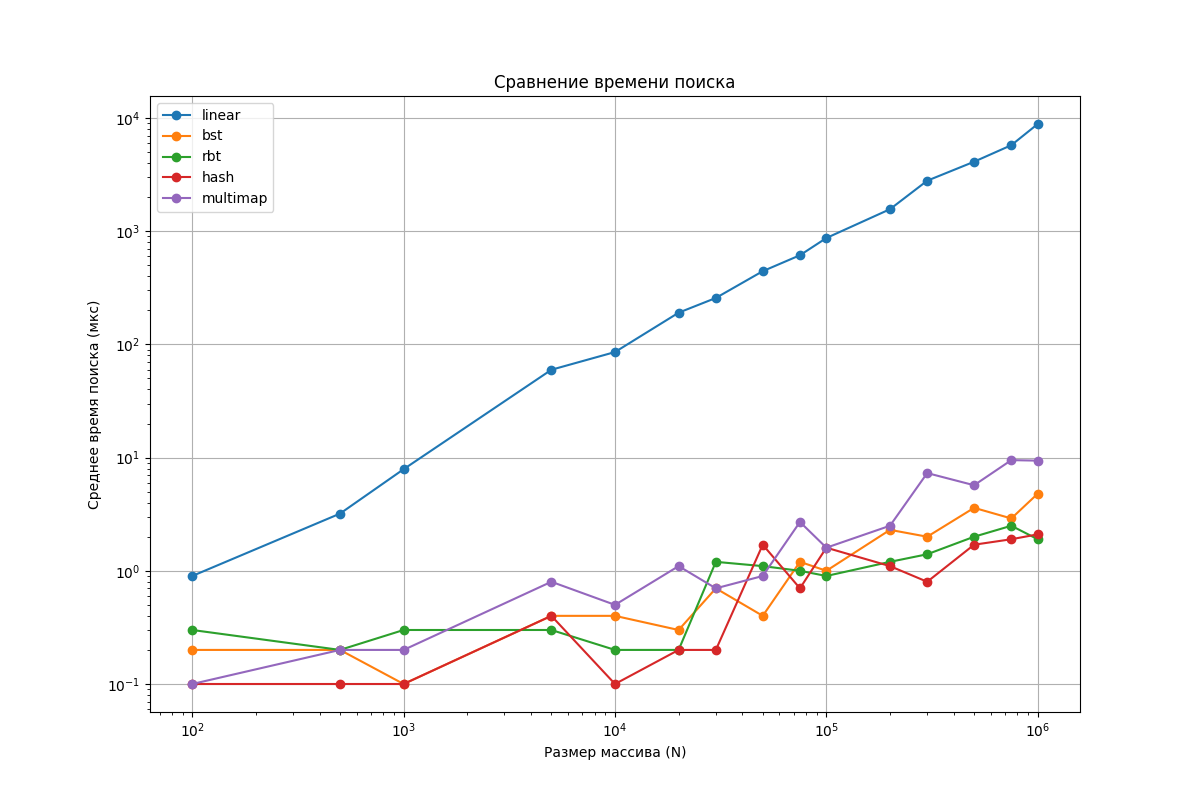
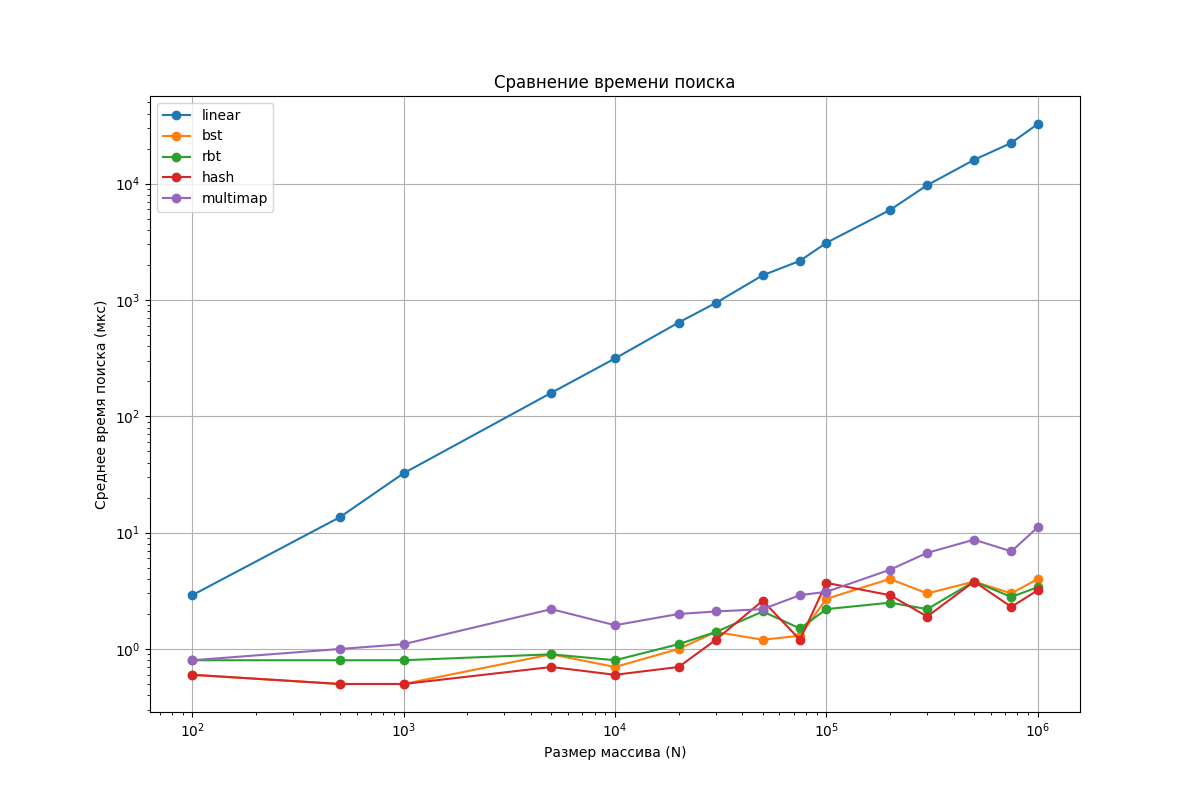
final

diff --git a/main.cpp b/main.cpp
@@ -78,7 +78,6 @@ vector<string> getUniqueKeys(const vector<Flight>& data, size_t count) {
 }
 
 int main() {
-    // Размеры массивов (должны соответствовать сгенерированным файлам)
     vector<size_t> sizes = {
         100, 500, 1000, 5000, 10000, 20000, 30000, 50000,
         75000, 100000, 200000, 300000, 500000, 750000, 1000000
@@ -100,7 +99,7 @@ int main() {
     for (size_t n : sizes) {
         cout << "Обработка n = " << n << "..." << endl;
 
-        // 1. Загрузка данных
+        // Загрузка данных
         string filename = "data/flights_" + to_string(n) + ".csv";
         vector<Flight> data = loadFromCSV(filename);
         if (data.empty()) {
@@ -108,14 +107,14 @@ int main() {
             continue;
         }
 
-        // 2. Выбор ключей для поиска (10 уникальных)
+        // Выбор ключей для поиска
         vector<string> keys = getUniqueKeys(data, 10);
         if (keys.empty()) {
             cerr << "Предупреждение: не удалось получить ключи для n = " << n << endl;
             continue;
         }
 
-        // 3. Построение структур поиска
+        // Построение структур поиска
 
         // BST
         BSTree bst;
@@ -125,7 +124,7 @@ int main() {
         RBTree rbt;
         for (const auto& f : data) rbt.insert(f);
 
-        // HashTable (фиксированный размер)
+        // HashTable 
         HashTable ht(HASH_TABLE_SIZE);
         for (const auto& f : data) ht.insert(f);
         size_t collisions = ht.getCollisions();
@@ -134,8 +133,8 @@ int main() {
         multimap<string, Flight> mmap;
         for (const auto& f : data) mmap.insert({f.getKey(), f});
 
-        // 4. Замеры времени (каждый замер выполняется один раз для всех ключей,
-        //    затем делим на количество ключей, чтобы получить среднее время одного поиска)
+        // Замеры времени (каждый замер выполняется один раз для всех ключей,
+        // затем делим на количество ключей, чтобы получить среднее время одного поиска)
 
         // Линейный поиск
         auto start = high_resolution_clock::now();
@@ -178,7 +177,7 @@ int main() {
         end = high_resolution_clock::now();
         double mmap_time = duration_cast<microseconds>(end - start).count() / (double)keys.size();
 
-        // 5. Запись в CSV
+        // Запись в CSV
         csv << n << ","
             << linear_time << ","
             << bst_time << ","

diff --git a/HashTable.cpp b/HashTable.cpp
@@ -32,7 +32,7 @@ void HashTable::insert(const Flight& f) {
     } else {
         // Ключ уже есть – добавляем в существующий вектор (дубликат)
         it->second.push_back(f);
-        // Коллизия не увеличивается – это дубликат, а не конфликт разных ключей
+        // Коллизия не увеличивается 
     }
 }
 

diff --git a/generate_data.cpp b/generate_data.cpp
@@ -175,7 +175,6 @@ int main() {
         75000, 100000, 200000, 300000, 500000, 750000, 1000000
     };
 
-    // Создаём папку data/, если её нет
     mkdir("data", 0755);
 
     for (size_t n : sizes) {